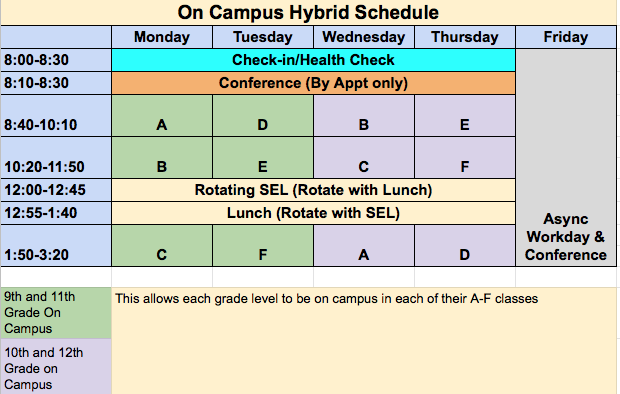
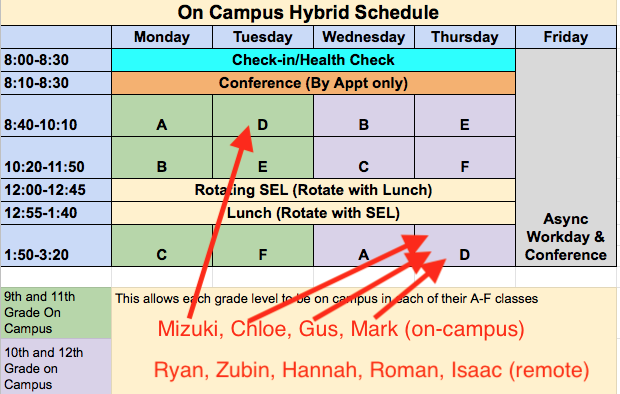
updates

diff --git a/readme.md b/readme.md
@@ -74,21 +74,21 @@ We will use this method of learning sparingly, reserved for difficult topics tha
 ![alt text][schoolwork]
 
 ## Paired Programming Teams
-We will be using the Paired Programming teams for team projects. ** Please provide me the Github Account usernames that you created a few weeks ago **.  The Paired Programming projects will be published at this location.  I have updated paired programming teams for the 2nd-term also keeping in mind the students taking the APCSA exam.
+We will be using the Paired Programming teams for team projects. ** Please provide me the Github Account usernames that you created a few weeks ago **.  The Paired Programming projects will be published at this location.  I have updated paired programming teams for the 2nd-term also keeping in mind the students remote/on-campus students and those taking the APCSA exam.
 
-### Team Baker
-* Chloe, Zubin
+### Team Baker (on-campus & apcsa)
+* Chloe, Gus, Mizuki
+ 
+### Team Rainier (remote & apcsa)
+* Hannah, Ryan, Zubin
 
-### Team Rainier
-* Hannah, Ryan
+### Team Hood (remote)
+* Gus, Sally
 
-### Team Hood
-* Gus, Sally, Mizuki
-
-### Team St Helens
+### Team St Helens (remote)
 * Roman, Isaac
 
-### Team Stevens
+### Team Stevens (on-campus)
 * Mark, Chandru
 
 #
